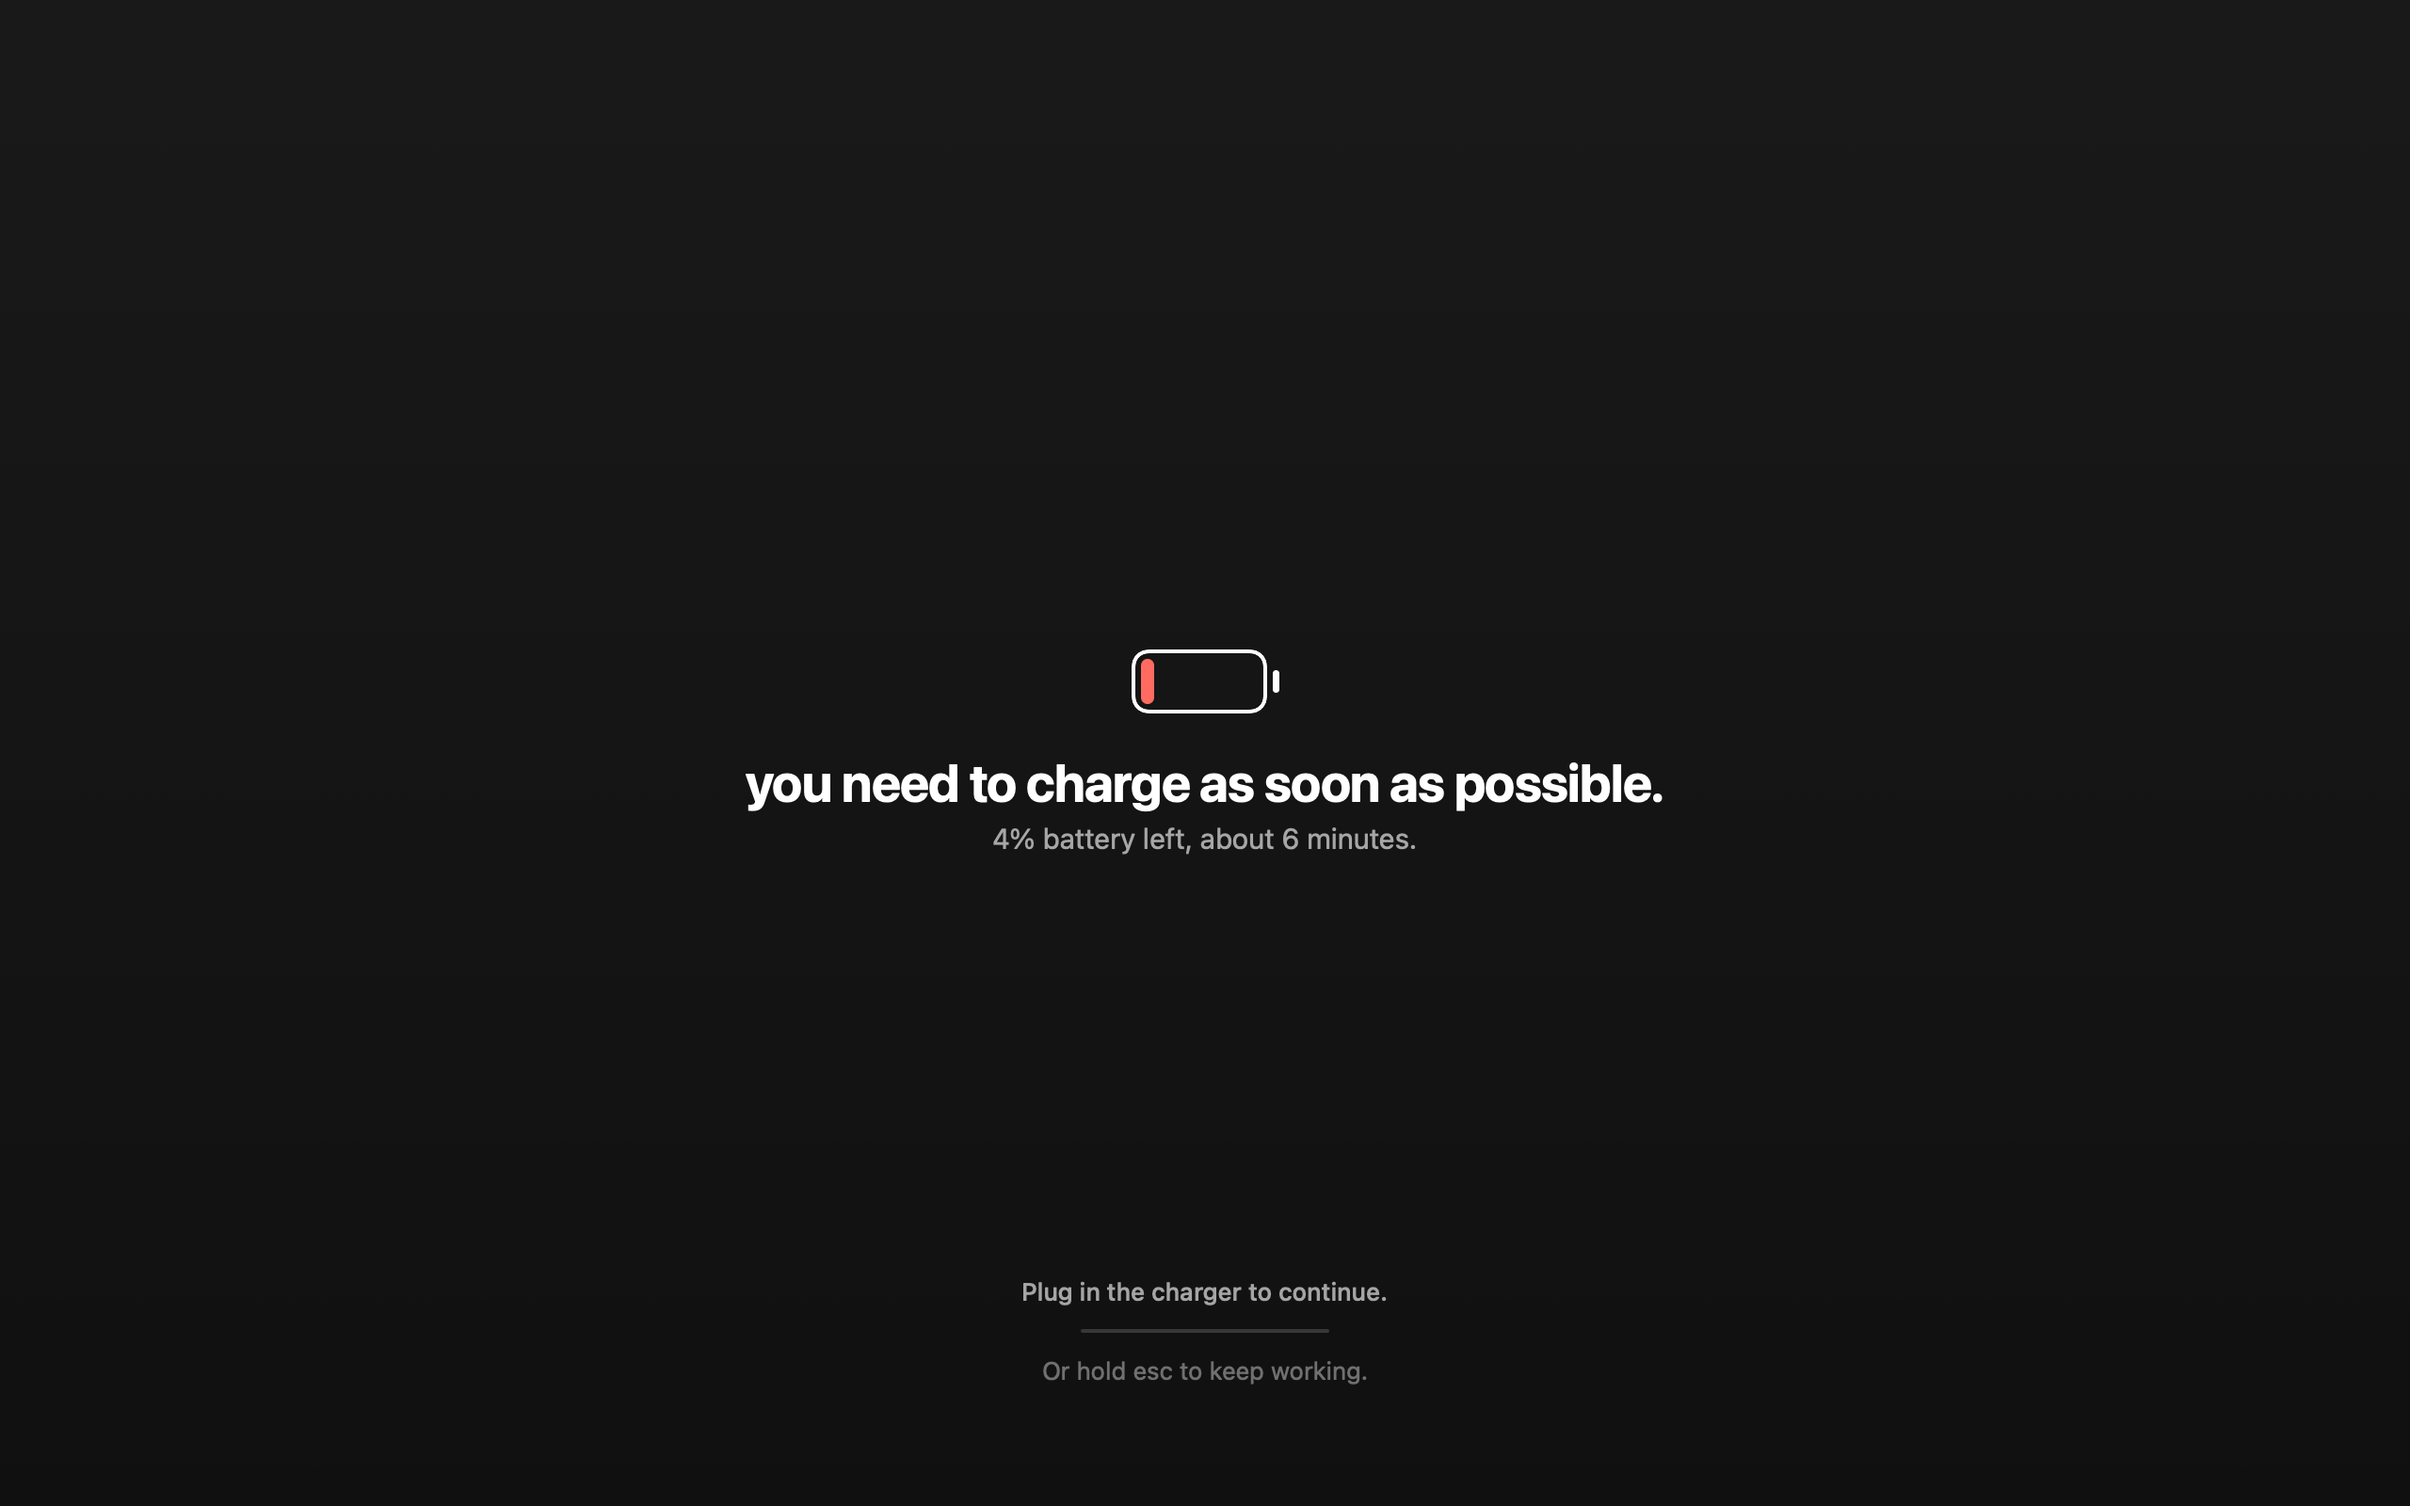
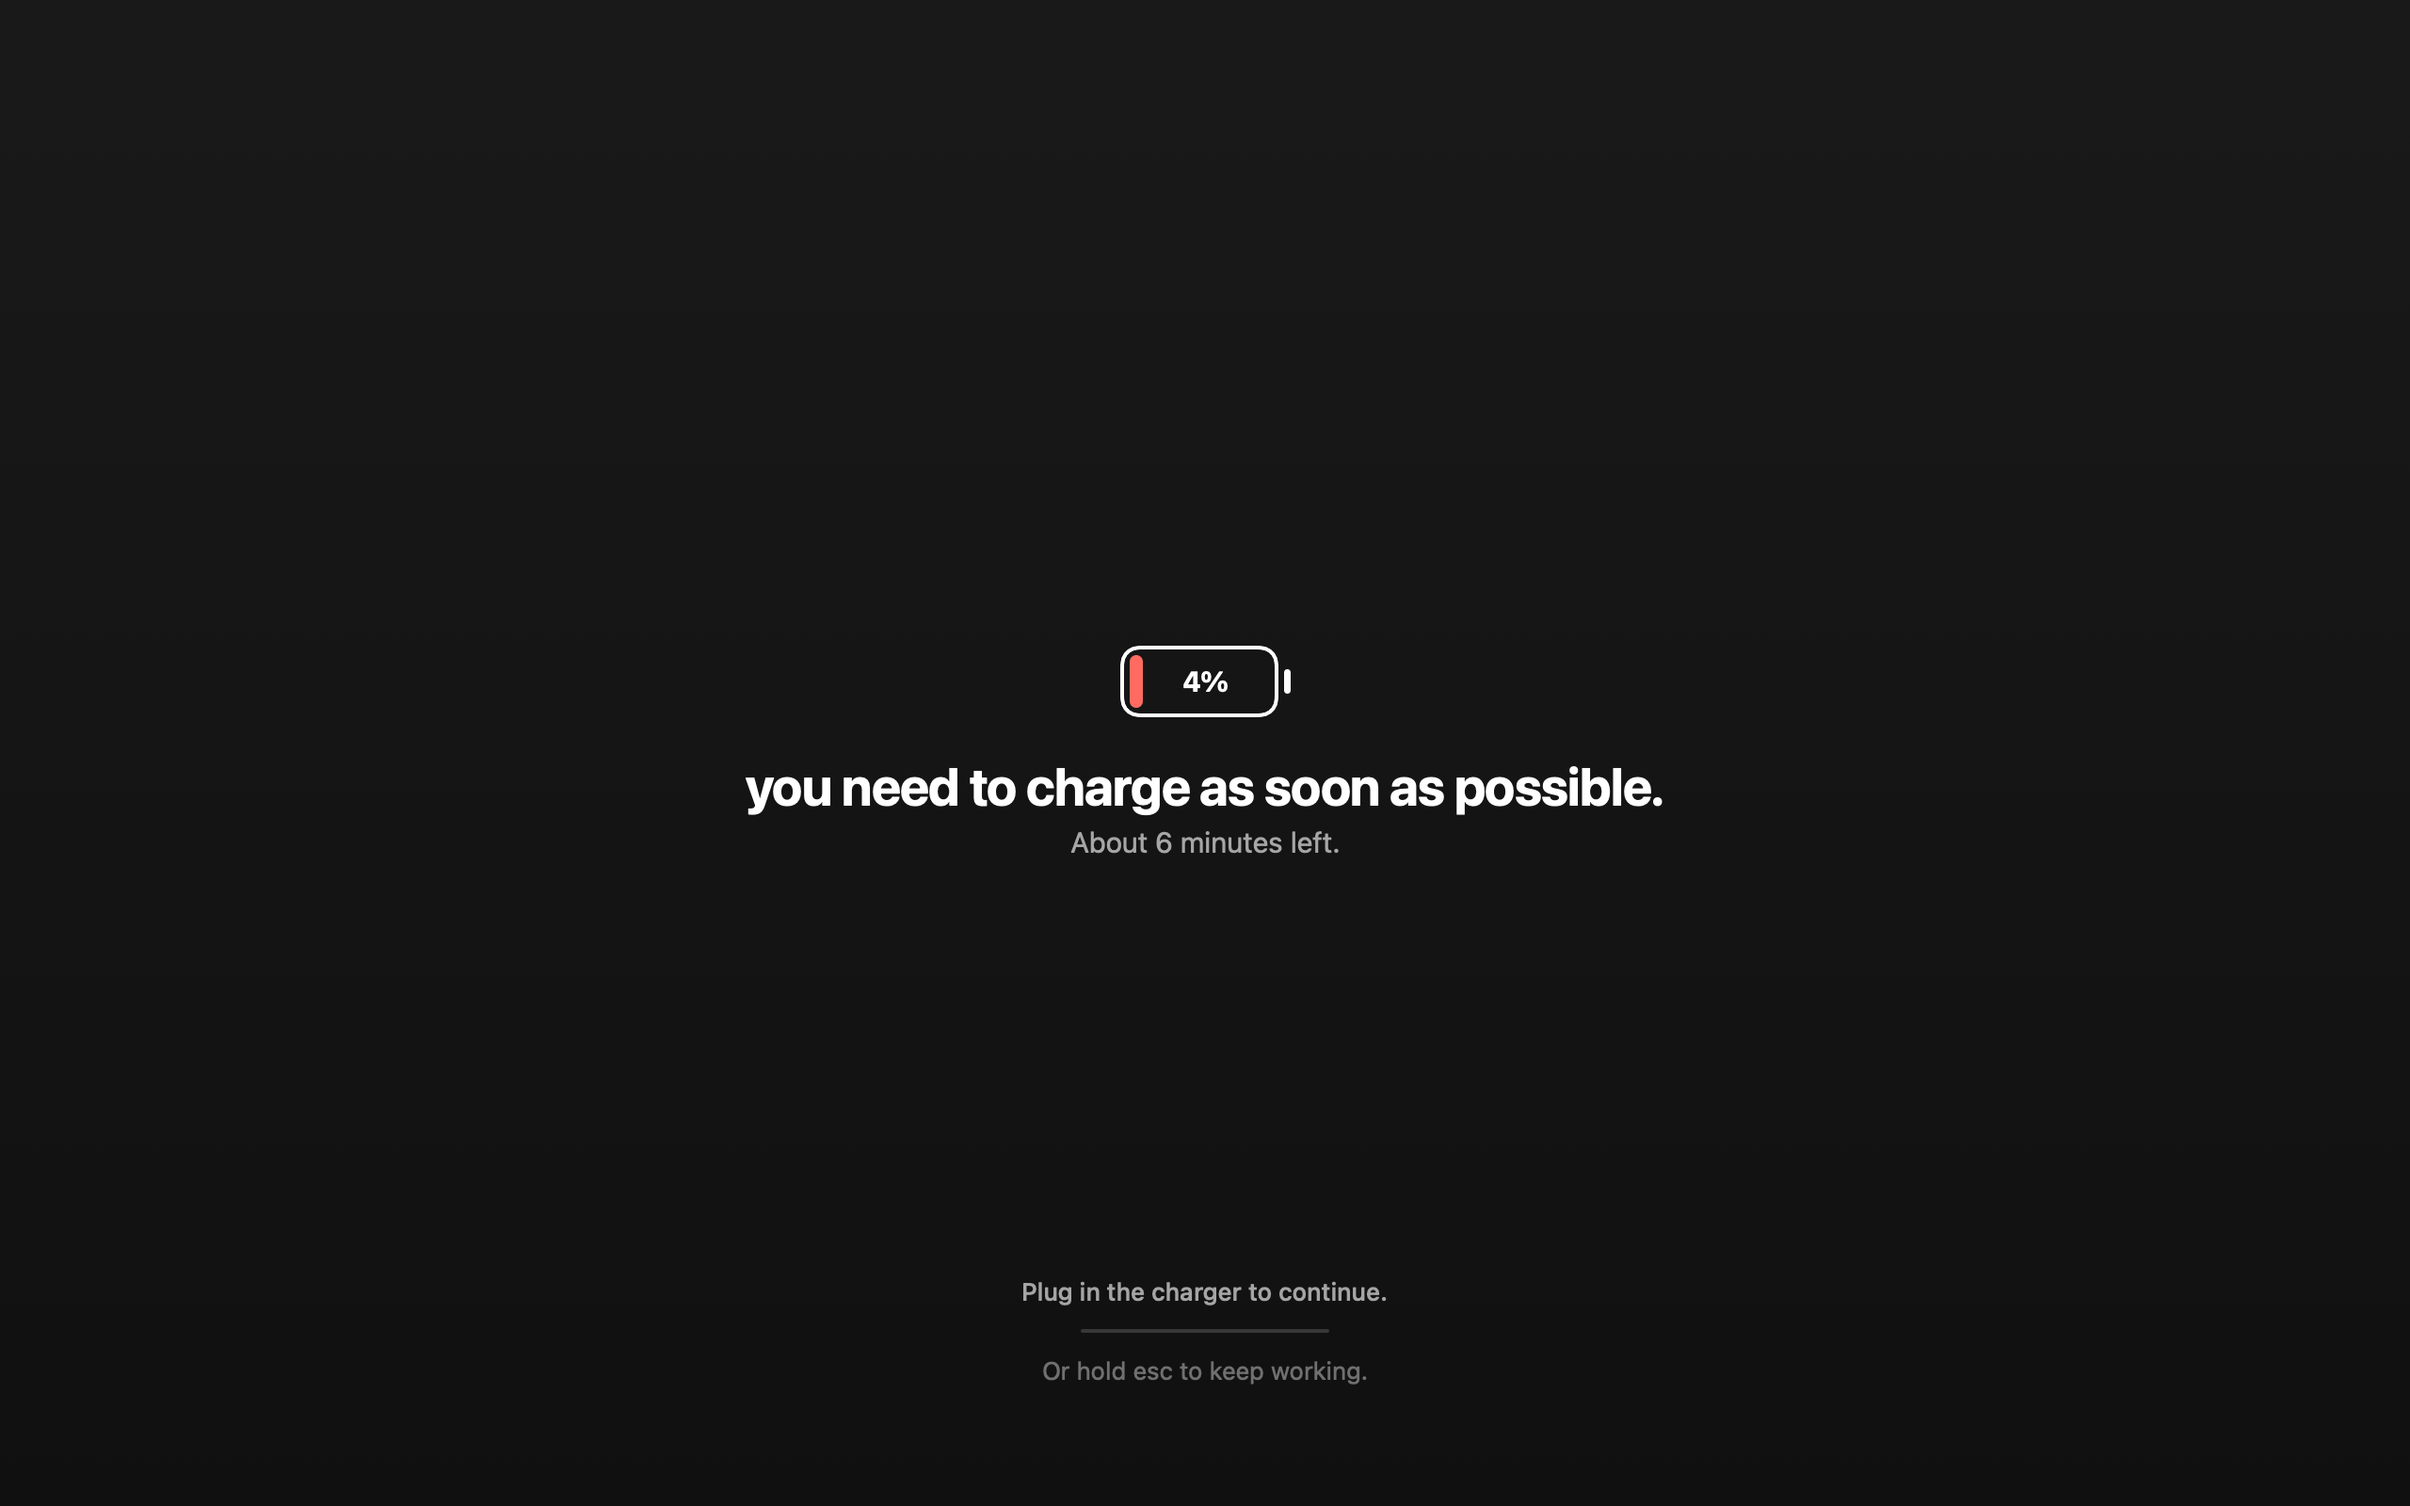
The percent sits inside the battery
The mark is a little larger (84 × 38) with the number in its empty part. The
sentence under the headline is now only the time left, and is absent when macOS
has no estimate.

Changed region(s): [[0.3125, 0.4062, 0.6875, 0.5625]]

diff --git a/App/OverlayView.swift b/App/OverlayView.swift
@@ -8,10 +8,10 @@ final class OverlayModel: ObservableObject {
     @Published var holding = false
     var holdSeconds = 2.0
 
-    /// What the number counts, in plain words, with the time left when macOS has an estimate.
-    var detail: String {
-        guard let minutesLeft else { return "\(percent)% battery left." }
-        return "\(percent)% battery left, about \(minutesLeft) \(minutesLeft == 1 ? "minute" : "minutes")."
+    /// The time left, when macOS has an estimate. The percent itself is inside the battery drawing.
+    var detail: String? {
+        guard let minutesLeft else { return nil }
+        return "About \(minutesLeft) \(minutesLeft == 1 ? "minute" : "minutes") left."
     }
 }
 
@@ -26,14 +26,16 @@ struct OverlayView: View {
             Theme.shade.opacity(blocked ? Theme.dimBlock : Theme.dimWarning)
 
             VStack(spacing: 0) {
-                BatteryMark(fraction: Double(model.percent) / 100, charge: blocked ? Theme.danger : Theme.ink)
+                BatteryMark(percent: model.percent, charge: blocked ? Theme.danger : Theme.ink)
                     .padding(.bottom, Theme.Space.l)
                 InkHeadline(text: "you need to charge as soon as possible.")
-                Text(model.detail)
-                    .font(.system(size: Theme.Size.detail))
-                    .monospacedDigit()
-                    .foregroundStyle(Theme.quiet)
-                    .padding(.top, Theme.Space.xxs)
+                if let detail = model.detail {
+                    Text(detail)
+                        .font(.system(size: Theme.Size.detail))
+                        .monospacedDigit()
+                        .foregroundStyle(Theme.quiet)
+                        .padding(.top, Theme.Space.xxs)
+                }
             }
             .padding(.horizontal, Theme.Space.xxl)
 
@@ -61,21 +63,34 @@ struct OverlayView: View {
     }
 }
 
-/// An empty battery with the little charge that is left. The outline is ink; only the charge takes a color.
+/// An empty battery with the little charge that is left and, in the empty part, the percent.
+/// The outline and the number are ink; only the charge takes a color.
 struct BatteryMark: View {
-    var fraction: Double
+    var percent: Int
     var charge: Color
 
     var body: some View {
         let room = Theme.Mark.width - Theme.Mark.inset * 2
+        let share = min(CGFloat(max(percent, 0)) / 100, Theme.Mark.maxChargeShare)
         HStack(spacing: Theme.Mark.capGap) {
-            ZStack(alignment: .leading) {
+            ZStack {
                 RoundedRectangle(cornerRadius: Theme.Mark.radius, style: .continuous)
                     .strokeBorder(Theme.ink, lineWidth: Theme.Mark.stroke)
-                RoundedRectangle(cornerRadius: Theme.Mark.chargeRadius, style: .continuous)
-                    .fill(charge)
-                    .frame(width: max(Theme.Mark.minCharge, room * min(max(fraction, 0), 1)))
-                    .padding(Theme.Mark.inset)
+                HStack(spacing: 0) {
+                    RoundedRectangle(cornerRadius: Theme.Mark.chargeRadius, style: .continuous)
+                        .fill(charge)
+                        .frame(width: max(Theme.Mark.minCharge, room * share))
+                    Text("\(percent)%")
+                        .font(.system(size: Theme.Mark.percent, weight: .bold))
+                        .monospacedDigit()
+                        .tracking(-Theme.Mark.percent * 0.025)
+                        .foregroundStyle(Theme.ink)
+                        .lineLimit(1)
+                        .fixedSize()
+                        .contentTransition(.numericText())
+                        .frame(maxWidth: .infinity)
+                }
+                .padding(Theme.Mark.inset)
             }
             .frame(width: Theme.Mark.width, height: Theme.Mark.height)
 
@@ -83,7 +98,8 @@ struct BatteryMark: View {
                 .fill(Theme.ink)
                 .frame(width: Theme.Mark.capWidth, height: Theme.Mark.capHeight)
         }
-        .accessibilityHidden(true)
+        .accessibilityElement()
+        .accessibilityLabel("\(percent)% battery left")
     }
 }
 

diff --git a/App/Theme.swift b/App/Theme.swift
@@ -40,17 +40,21 @@ enum Theme {
         static let holdHeight: CGFloat = 2
     }
 
-    /// The battery drawing above the headline, laid out on a 72 × 34 sketch.
+    /// The battery drawing above the headline, laid out on an 84 × 38 sketch: the charge that is left on the
+    /// left, the percent in the empty part.
     enum Mark {
-        static let width: CGFloat = 72
-        static let height: CGFloat = 34
+        static let width: CGFloat = 84
+        static let height: CGFloat = 38
         static let stroke: CGFloat = 2
-        static let radius: CGFloat = 9
+        static let radius: CGFloat = 10
         static let inset: CGFloat = 5
-        static let chargeRadius: CGFloat = 4.5
+        static let chargeRadius: CGFloat = 5
         static let minCharge: CGFloat = 7
+        /// The charge never takes more than this share of the inside, so the percent always has room.
+        static let maxChargeShare: CGFloat = 0.35
+        static let percent: CGFloat = 15
         static let capWidth: CGFloat = 3.5
-        static let capHeight: CGFloat = 12
+        static let capHeight: CGFloat = 13
         static let capGap: CGFloat = 3
     }
 

diff --git a/CLAUDE.md b/CLAUDE.md
@@ -45,7 +45,8 @@ Read `App/Theme.swift` before touching the overlay; `scripts/check-design.sh` fa
 radius or color outside it. The owner's taste (monochrome ink, Stoic style): one small mark, one bold lowercase
 headline ending in a period, one plain sentence under it, lots of air. The overlay is always dark, whatever the
 system appearance: it is the screen, dimmed. White ink; the only hue is `Theme.danger`, on the battery's last
-sliver in the block. Calm springs, nothing looping. Every number says what it counts ("4% battery left").
+sliver in the block. Calm springs, nothing looping. The percent sits inside the battery mark, so it needs no label; the sentence
+under the headline is only the time left, and is absent when macOS has no estimate.
 
 The overlay is a non-activating `NSPanel` at the shielding window level on every screen. Non-activating
 matters: a background app cannot reliably bring itself to the front on current macOS, and the panel can take

diff --git a/README.md b/README.md
@@ -22,7 +22,7 @@ on-device, nothing uploaded.
 ## Features
 
 - **A warning at 10%.** The screen dims and blurs: "you need to charge as soon as possible.", with the percent
-  and the time macOS expects is left. One click or Esc dismisses it.
+  inside a small battery and the time macOS expects is left. One click or Esc dismisses it.
 - **A block at 5%.** The same screen, darker, on every display. It stays until the charger is plugged in, even
   if you dismissed the warning.
 - **Never a dead end.** Hold Esc (or the mouse) for two seconds to keep working. The block comes back at the
